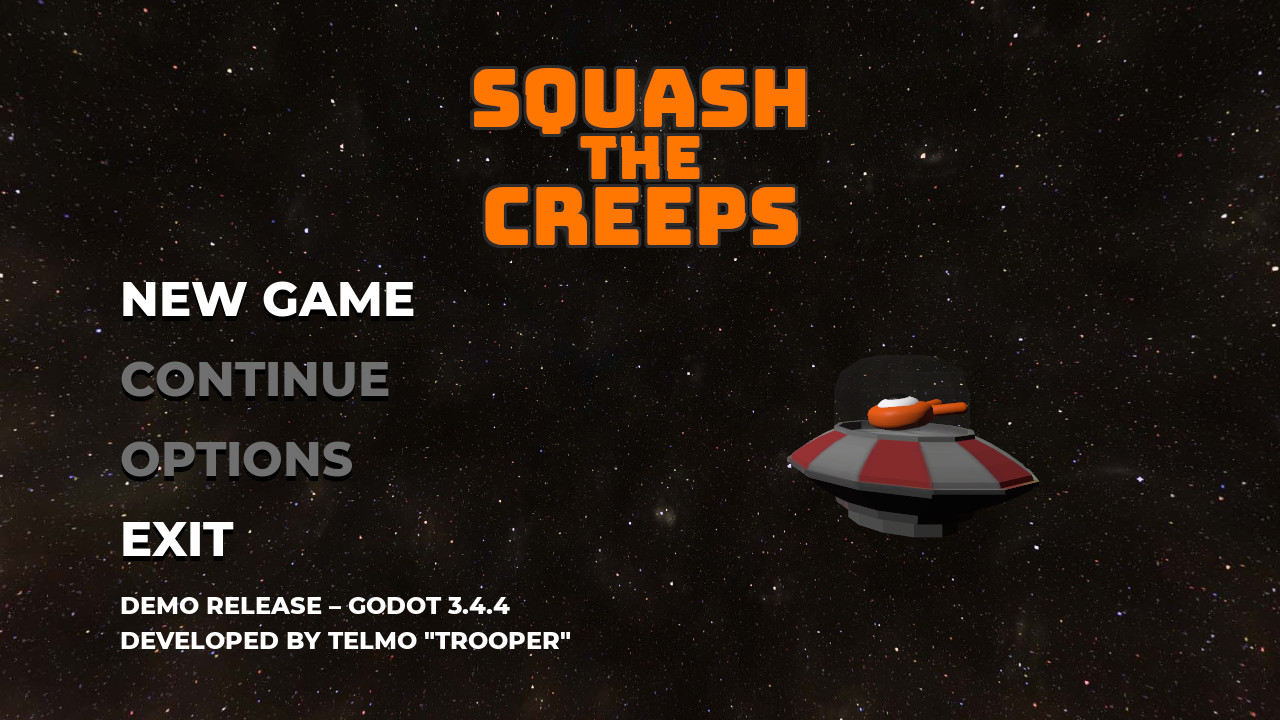
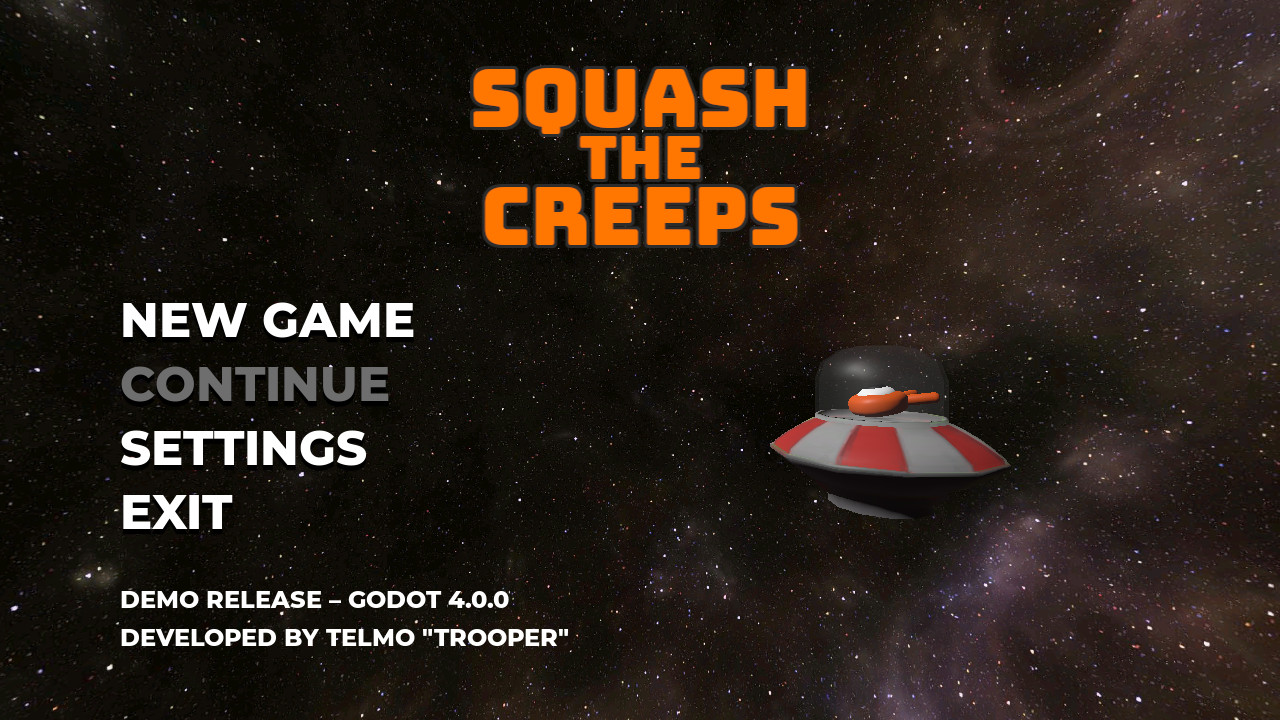
Updated README regarding Godot 4 changes (#165)
* Updated screenshots

* Updated README with Blender instructions

---------

diff --git a/README.md b/README.md
@@ -26,12 +26,17 @@ You can **[download here](https://github.com/telmotrooper/squash-the-creeps/rele
 * Linux: `~/.local/share/godot/app_userdata/Squash the Creeps/settings.cfg`
 * Mac: `~/Library/Application Support/Godot/app_userdata/Squash the Creeps/settings.cfg`
 
-#### **I'm getting error "Mixed tabs and spaces in indentation"**
+#### **(Editor) I'm getting error "Mixed tabs and spaces in indentation"**
 
 If you get this error, go in the editor and click `Editor > Editor Settings... > General > Text Editor > Indent`, then change **Type** to `Spaces` and **Size** to `2`. Then close the project, reset the file changes with `git reset --hard` and reopen the project. You should now be able to edit the files without running into the error.
 
-#### **I'm getting error "Unable to load addon script from path"**
+#### **(Editor) I'm getting error "Unable to load addon script from path"**
 For some reason, the first time you open the project in Godot you'll get this error and the plugins used in the project will be disabled. You should be able to fix it just by running `git checkout HEAD project.godot` to reset the changes.
+
+#### **(Editor) I'm getting error "Scene '...' has broken dependencies: '...'.blend"**
+Since the project now relies on `.blend` files, you'll have to have [Blender](https://www.blender.org/) installed in your system and set up in the Godot Editor. To do so, go to `Editor > Editor Settings... > FileSystem > Import` and in `Blender 3 Path` set the path where Blender is installed. Some possible values might be:
+* Arch Linux: `/usr/bin`
+* Windows: `C:/Program Files/Blender Foundation/Blender 3.4`
 
 #### **(MacOS) "Squash the Creeps.app" is damaged and can't be opened**
 
